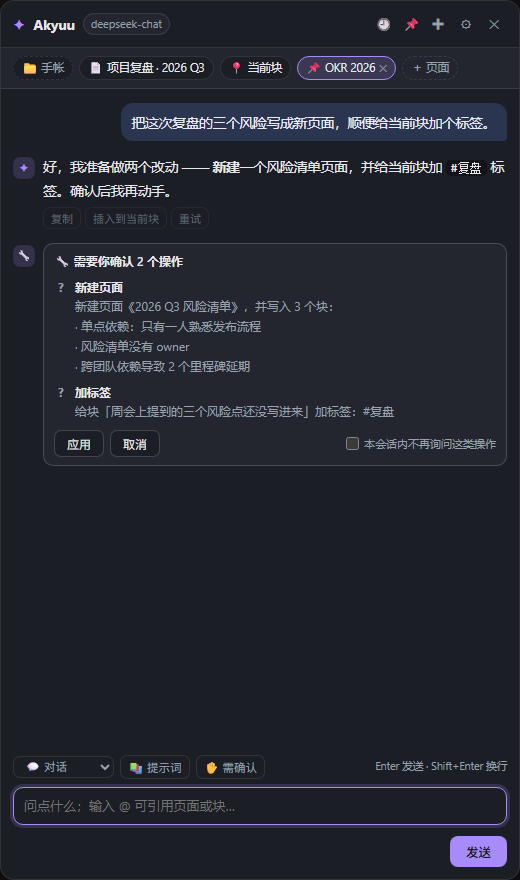
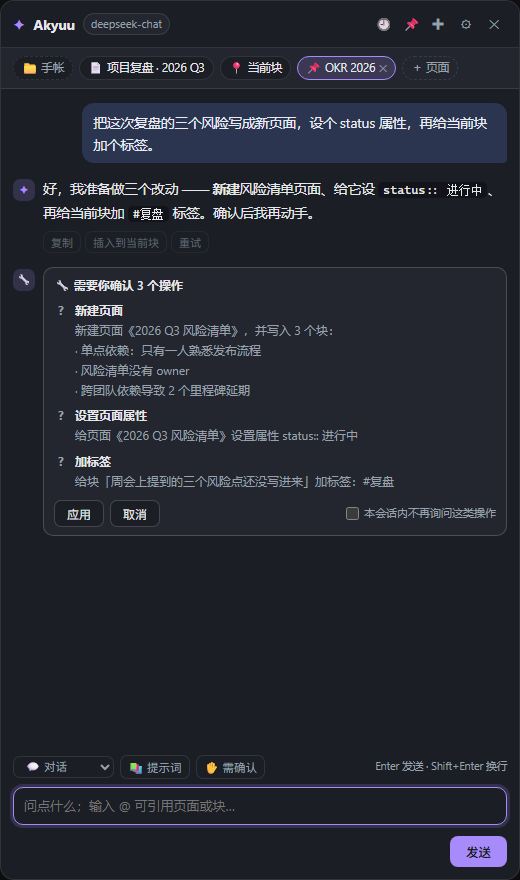
docs: 刷新预览截图（3 个待确认操作、会话列表、@ 选择器）

Changed region(s): [[0.0, 0.092, 0.9846, 0.6136], [0.5846, 0.3375, 0.6462, 0.3989]]

diff --git a/preview.html b/preview.html
@@ -76,12 +76,12 @@
       };
 
       const messages = [
-        { id: 1, role: "user", content: "把这次复盘的三个风险写成新页面，顺便给当前块加个标签。" },
+        { id: 1, role: "user", content: "把这次复盘的三个风险写成新页面，设个 status 属性，再给当前块加个标签。" },
         {
           id: 2,
           role: "assistant",
           content:
-            "好，我准备做两个改动 —— **新建**一个风险清单页面，并给当前块加 `#复盘` 标签。确认后我再动手。",
+            "好，我准备做三个改动 —— **新建**风险清单页面、给它设 `status:: 进行中`、再给当前块加 `#复盘` 标签。确认后我再动手。",
         },
         {
           id: 3,
@@ -95,6 +95,11 @@
               title: "新建页面",
               preview:
                 "新建页面《2026 Q3 风险清单》，并写入 3 个块：\n  · 单点依赖：只有一人熟悉发布流程\n  · 风险清单没有 owner\n  · 跨团队依赖导致 2 个里程碑延期",
+            },
+            {
+              name: "set_page_property",
+              title: "设置页面属性",
+              preview: "给页面《2026 Q3 风险清单》设置属性 status:: 进行中",
             },
             {
               name: "add_tags",
@@ -138,7 +143,7 @@
         if (new URLSearchParams(location.search).get("mention")) {
           const input = document.querySelector("#cp-input");
           input.focus();
-          input.value = "@项目";
+          input.value = "@";
           input.setSelectionRange(input.value.length, input.value.length);
           input.dispatchEvent(new Event("input", { bubbles: true }));
         }
